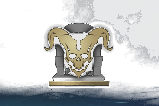
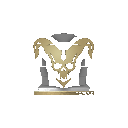
Add files via upload

diff --git a/aion2-sanctuary-site/styles.css b/aion2-sanctuary-site/styles.css
@@ -891,3 +891,51 @@ body::before { display: none; }
   .recruit-action-stack { grid-template-columns: 1fr 1fr; min-width: 0; }
   .delete-recruit-btn, .clean-action-btn { width: 100%; }
 }
+
+
+/* v11: 로고/메모 가독성 개선 */
+.brand-logo {
+  width: 120px;
+  height: 56px;
+  object-fit: contain;
+  background: transparent !important;
+}
+.hero-title-wrap { gap: 14px; }
+.hero-icon {
+  width: 54px;
+  height: 54px;
+  object-fit: contain;
+  border-radius: 0;
+  background: transparent !important;
+  border: 0 !important;
+  box-shadow: none !important;
+  padding: 0;
+}
+.recruit-note-block {
+  display: grid;
+  gap: 6px;
+  min-width: 220px;
+  padding: 10px 12px;
+  border: 1px solid #e6ebf1;
+  background: #f8fafc;
+  border-radius: 12px;
+}
+.recruit-note-block .label {
+  font-size: 12px;
+  font-weight: 700;
+  color: #6e7d8d;
+}
+.recruit-note-text {
+  color: #2e3b49 !important;
+  line-height: 1.6;
+  font-size: 14px;
+  white-space: normal;
+  word-break: break-word;
+}
+.simple-recruit-item.white-recruit-item {
+  grid-template-columns: minmax(220px, 1.05fr) .58fr minmax(220px, 1fr) auto;
+  align-items: center;
+}
+@media (max-width: 860px) {
+  .recruit-note-block { min-width: 0; width: 100%; }
+}
